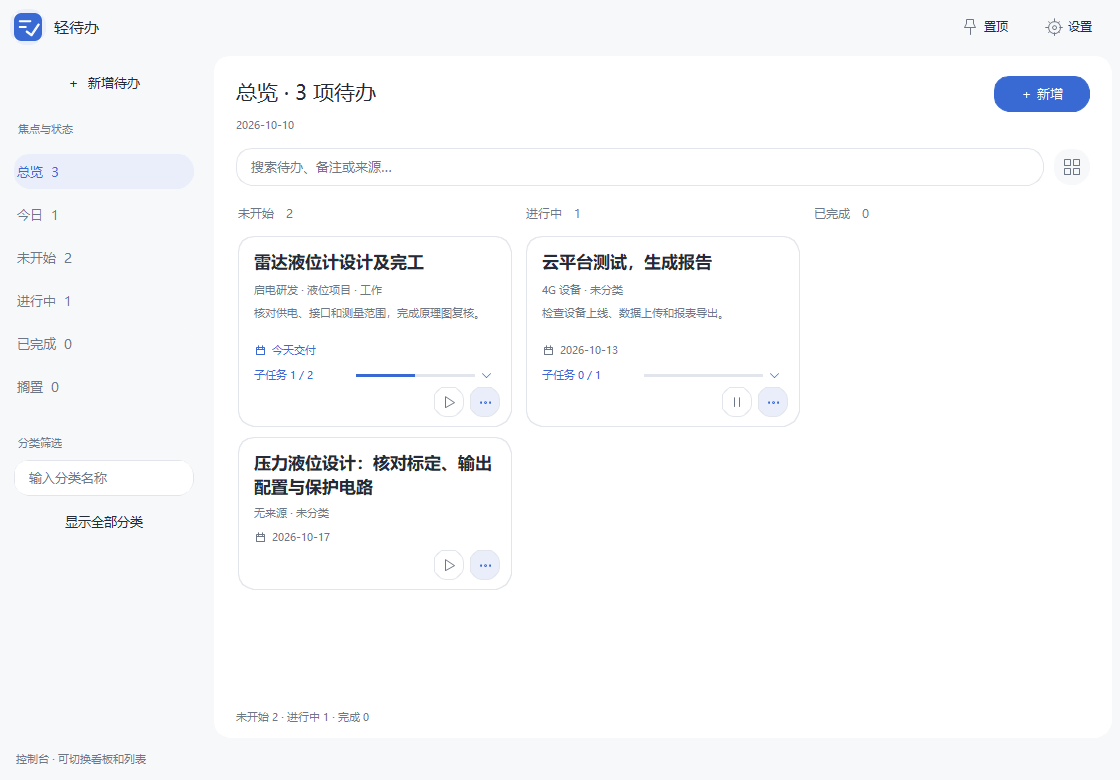
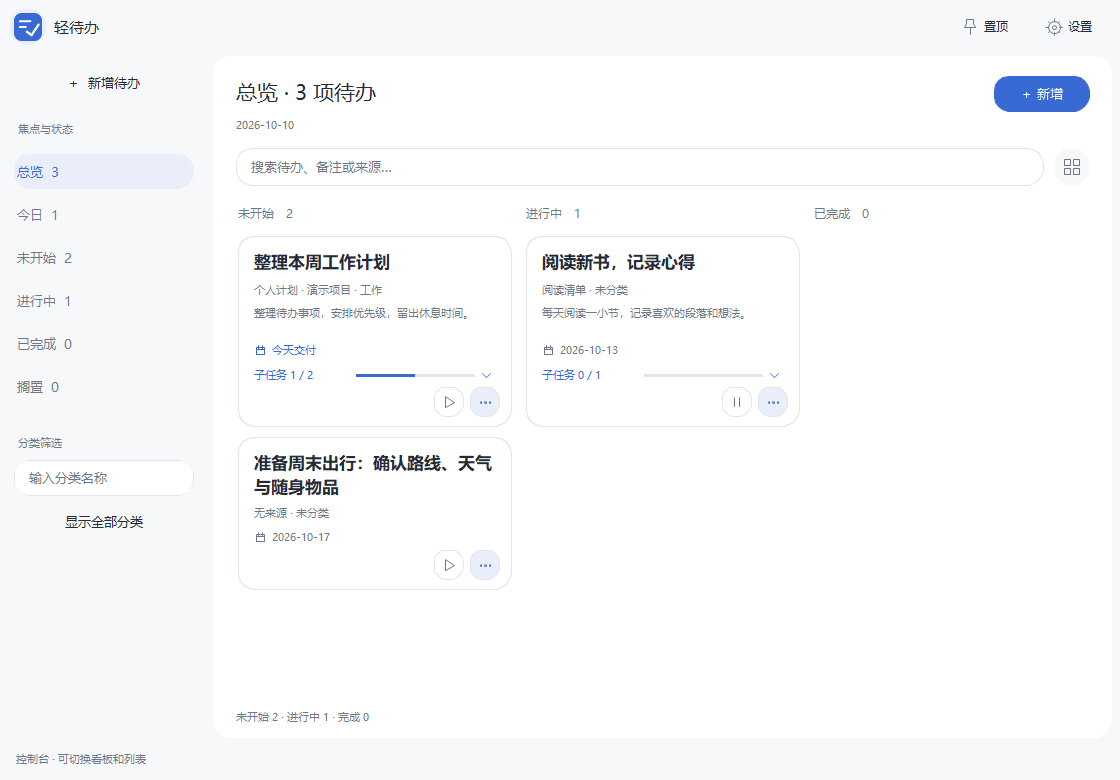
Replace README screenshots with generic demonstration tasks

Changed region(s): [[0.4688, 0.3077, 0.6562, 0.4308], [0.2188, 0.3077, 0.4375, 0.4308], [0.2188, 0.5846, 0.4375, 0.6462]]

diff --git a/src/ui.cpp b/src/ui.cpp
@@ -282,22 +282,22 @@ struct Ui::Impl {
     }
 #endif
     void check_quick_children(){
-        auto task=store.list(u8"雷达").at(0);list->toggle_children(task.id);refresh();
+        auto task=store.list(u8"本周工作").at(0);list->toggle_children(task.id);refresh();
         auto rows=[&]{for(const auto& card:list->cards)if(list->tasks[card.index].id==task.id)return list->child_rows(card);throw std::runtime_error("Expanded parent missing");};
         auto click=[&](const TaskBoard::ChildRow& row){int ox=Fl::e_x,oy=Fl::e_y,ok=Fl::e_keysym;Fl::e_x=list->x()+row.x+8;Fl::e_y=list->y()+row.y-list->offset+row.h/2;Fl::e_keysym=FL_Button+FL_LEFT_MOUSE;list->handle(FL_PUSH);list->handle(FL_RELEASE);Fl::e_x=ox;Fl::e_y=oy;Fl::e_keysym=ok;};
         auto children=rows();if(children.size()!=2)throw std::runtime_error("Main-page child expansion failed");capture("quick-children-render.ppm");
         int ox=Fl::e_x,oy=Fl::e_y,ok=Fl::e_keysym;Fl::e_x=list->x()+children[0].x+8;Fl::e_y=list->y()+children[0].y-list->offset+children[0].h/2;Fl::e_keysym=FL_Button+FL_LEFT_MOUSE;list->handle(FL_PUSH);Fl::e_y=list->y()+children[1].y-list->offset+children[1].h/2;list->handle(FL_DRAG);list->handle(FL_RELEASE);Fl::e_x=ox;Fl::e_y=oy;Fl::e_keysym=ok;
-        if(store.list(u8"雷达")[0].child_done!=1)throw std::runtime_error("Dragging between child rows changed completion");
+        if(store.list(u8"本周工作")[0].child_done!=1)throw std::runtime_error("Dragging between child rows changed completion");
         auto parent_card=*std::find_if(list->cards.begin(),list->cards.end(),[&](const TaskBoard::Card& card){return list->tasks[card.index].id==task.id;});
         for(int destination=0;destination<3;++destination){ox=Fl::e_x;oy=Fl::e_y;ok=Fl::e_keysym;Fl::e_x=list->x()+children[0].x+8;Fl::e_y=list->y()+children[0].y-list->offset+children[0].h/2;Fl::e_keysym=FL_Button+FL_LEFT_MOUSE;list->handle(FL_PUSH);Fl::e_x=list->x()+parent_card.x+(destination==0?parent_card.w-63:destination==1?parent_card.w-27:40);Fl::e_y=list->y()+parent_card.y-list->offset+(destination<2?parent_card.h-25:20);list->handle(FL_DRAG);list->handle(FL_RELEASE);Fl::e_x=ox;Fl::e_y=oy;Fl::e_keysym=ok;
-            if(page!=Page::Home||list->menu_id||store.list(u8"雷达")[0].in_progress)throw std::runtime_error("Child drag triggered a parent action");}
-        click(children[1]);if(page!=Page::Home||store.list(u8"雷达")[0].child_done!=2)throw std::runtime_error("Quick child check did not save in main page");
-        if(store.list(u8"雷达")[0].done)throw std::runtime_error("Quick child check unexpectedly completed parent");
-        store.set_done(task.id,true);refresh();children=rows();click(children[1]);if(store.list(u8"雷达")[0].done||store.list(u8"雷达")[0].child_done!=1)throw std::runtime_error("Quick child reopen did not restore parent");
+            if(page!=Page::Home||list->menu_id||store.list(u8"本周工作")[0].in_progress)throw std::runtime_error("Child drag triggered a parent action");}
+        click(children[1]);if(page!=Page::Home||store.list(u8"本周工作")[0].child_done!=2)throw std::runtime_error("Quick child check did not save in main page");
+        if(store.list(u8"本周工作")[0].done)throw std::runtime_error("Quick child check unexpectedly completed parent");
+        store.set_done(task.id,true);refresh();children=rows();click(children[1]);if(store.list(u8"本周工作")[0].done||store.list(u8"本周工作")[0].child_done!=1)throw std::runtime_error("Quick child reopen did not restore parent");
         // 模式、窄窗口与滚动后的命中必须共用实际布局，点击子项不能进入编辑页。
-        console=true;window->resize(window->x(),window->y(),1120,780);refresh();children=rows();click(children[1]);if(page!=Page::Home||store.list(u8"雷达")[0].child_done!=2)throw std::runtime_error("Board quick child hit failed");
-        console=false;window->resize(window->x(),window->y(),440,620);refresh();children=rows();click(children[1]);if(page!=Page::Home||store.list(u8"雷达")[0].child_done!=1)throw std::runtime_error("Narrow quick child hit failed");
-        open_editor();title->value(u8"尚未保存的子任务操作保护");navigate(Page::Home);children=rows();click(children[1]);if(page!=Page::Edit||std::string(title->value())!=u8"尚未保存的子任务操作保护"||store.list(u8"雷达")[0].child_done!=1)throw std::runtime_error("Quick child action overwrote draft");cancel_edit();
+        console=true;window->resize(window->x(),window->y(),1120,780);refresh();children=rows();click(children[1]);if(page!=Page::Home||store.list(u8"本周工作")[0].child_done!=2)throw std::runtime_error("Board quick child hit failed");
+        console=false;window->resize(window->x(),window->y(),440,620);refresh();children=rows();click(children[1]);if(page!=Page::Home||store.list(u8"本周工作")[0].child_done!=1)throw std::runtime_error("Narrow quick child hit failed");
+        open_editor();title->value(u8"尚未保存的子任务操作保护");navigate(Page::Home);children=rows();click(children[1]);if(page!=Page::Edit||std::string(title->value())!=u8"尚未保存的子任务操作保护"||store.list(u8"本周工作")[0].child_done!=1)throw std::runtime_error("Quick child action overwrote draft");cancel_edit();
         list->toggle_children(task.id);if(!rows().empty())throw std::runtime_error("Child collapse failed");window->resize(window->x(),window->y(),500,780);refresh();
         Task large;large.title=u8"长子任务与滚动回归";std::vector<Subtask> many;for(int i=0;i<200;++i)many.push_back({0,i==199?std::string(u8"最后一项：确认这一段较长的中文子任务换行后，仍然能够在主页面滚动并直接完成，不会被底部的父任务按钮覆盖。"):u8"检查项 "+std::to_string(i+1),false});
         auto large_id=store.save_task(large,many);search->value(large.title.c_str());refresh();list->toggle_children(large_id);const auto card=list->cards.at(0);auto large_rows=list->child_rows(card);if(large_rows.size()!=200||large_rows.back().y+large_rows.back().h>card.y+card.h-40)throw std::runtime_error("Long child rows overlap task actions");list->offset=std::max(0,list->total-list->h());click(large_rows.back());if(store.list(large.title)[0].child_done!=1||page!=Page::Home)throw std::runtime_error("Scrolled final child quick check failed");store.remove(large_id);search->value("");list->offset=0;refresh();
@@ -333,17 +333,17 @@ struct Ui::Impl {
 #ifdef _WIN32
         a->check_ball_lifecycle();
 #endif
-        a->open_editor();a->title->value(u8"雷达液位计设计及完工");a->source->value(u8"启电研发 · 液位项目");a->category->value(u8"工作");a->note->value(u8"核对供电、接口和测量范围，完成原理图复核。");a->due_chips[0]->do_callback();a->child_input->value(u8"确认供电与通信接口");a->add_child->do_callback();a->child_list->items[0].done=true;a->child_input->value(u8"绘制原理图并复核");a->add_child->do_callback();a->save_button->do_callback();auto t=a->store.list(u8"雷达");if(t.size()!=1||t[0].child_count!=2||t[0].child_done!=1||t[0].due_at!=day_after(0))throw std::runtime_error("Task/children/shortcut save failed");long long first=t[0].id;
-        Task second;second.title=u8"云平台测试，生成报告";second.source=u8"4G 设备";second.due_at=day_after(3);second.note=u8"检查设备上线、数据上传和报表导出。";auto second_id=a->store.save_task(second,{});a->store.set_progress(second_id,true);
-        Task third;third.title=u8"压力液位设计：核对标定、输出配置与保护电路";third.due_at=day_after(7);a->store.save_task(third,{});
-        auto running=a->store.list(u8"云平台");a->open_editor(&running[0]);a->child_input->value(u8"复核设备上传数据");a->add_child->do_callback();a->save_button->do_callback();running=a->store.list(u8"云平台");if(!running[0].in_progress)throw std::runtime_error("Adding a child lost parent running state");
-        a->open_editor(&running[0]);a->child_list->items[0].done=true;a->save_button->do_callback();running=a->store.list(u8"云平台");a->open_editor(&running[0]);a->child_list->action(0,0);a->save_button->do_callback();if(!a->store.list(u8"云平台")[0].in_progress)throw std::runtime_error("Reopening a child lost parent running state");
-        t=a->store.list(u8"雷达");a->open_editor(&t[0]);a->child_input->value(u8"这项未保存，不应写入数据库");a->add_child->do_callback();a->cancel_button->do_callback();if(a->store.children(first).size()!=2)throw std::runtime_error("Cancel leaked child draft");
+        a->open_editor();a->title->value(u8"整理本周工作计划");a->source->value(u8"个人计划 · 演示项目");a->category->value(u8"工作");a->note->value(u8"整理待办事项，安排优先级，留出休息时间。");a->due_chips[0]->do_callback();a->child_input->value(u8"列出本周重点事项");a->add_child->do_callback();a->child_list->items[0].done=true;a->child_input->value(u8"安排时间并复核计划");a->add_child->do_callback();a->save_button->do_callback();auto t=a->store.list(u8"本周工作");if(t.size()!=1||t[0].child_count!=2||t[0].child_done!=1||t[0].due_at!=day_after(0))throw std::runtime_error("Task/children/shortcut save failed");long long first=t[0].id;
+        Task second;second.title=u8"阅读新书，记录心得";second.source=u8"阅读清单";second.due_at=day_after(3);second.note=u8"每天阅读一小节，记录喜欢的段落和想法。";auto second_id=a->store.save_task(second,{});a->store.set_progress(second_id,true);
+        Task third;third.title=u8"准备周末出行：确认路线、天气与随身物品";third.due_at=day_after(7);a->store.save_task(third,{});
+        auto running=a->store.list(u8"阅读新书");a->open_editor(&running[0]);a->child_input->value(u8"整理阅读笔记");a->add_child->do_callback();a->save_button->do_callback();running=a->store.list(u8"阅读新书");if(!running[0].in_progress)throw std::runtime_error("Adding a child lost parent running state");
+        a->open_editor(&running[0]);a->child_list->items[0].done=true;a->save_button->do_callback();running=a->store.list(u8"阅读新书");a->open_editor(&running[0]);a->child_list->action(0,0);a->save_button->do_callback();if(!a->store.list(u8"阅读新书")[0].in_progress)throw std::runtime_error("Reopening a child lost parent running state");
+        t=a->store.list(u8"本周工作");a->open_editor(&t[0]);a->child_input->value(u8"这项未保存，不应写入数据库");a->add_child->do_callback();a->cancel_button->do_callback();if(a->store.children(first).size()!=2)throw std::runtime_error("Cancel leaked child draft");
         a->check_quick_children();a->check_editor_scroll();
-        a->search->value(u8"雷达");a->search->do_callback();if(a->list->tasks.size()!=1)throw std::runtime_error("Search failed");a->search->value("");a->search->do_callback();a->capture("ui-render.ppm");
+        a->search->value(u8"本周工作");a->search->do_callback();if(a->list->tasks.size()!=1)throw std::runtime_error("Search failed");a->search->value("");a->search->do_callback();a->capture("ui-render.ppm");
         a->logo->do_callback();if(!a->console)throw std::runtime_error("Logo mode switch failed");fl_font(FL_HELVETICA,14);for(const auto& card:a->list->cards)if(a->list->tasks[card.index].title==third.title&&card.h<2*fl_height()+105)throw std::runtime_error("Long Chinese title did not wrap");a->capture("console-render.ppm");a->view_button->do_callback();a->capture("console-list-render.ppm");a->view_button->do_callback();
         for(auto size:std::array<std::pair<int,int>,5>{{{440,620},{760,650},{1120,780},{1440,900},{500,780}}}){a->window->resize(a->window->x(),a->window->y(),size.first,size.second);a->check_layout();if(size.first==440)a->capture("narrow-render.ppm");if(size.first==1440)a->capture("wide-render.ppm");}
-        a->console=false;a->refresh();t=a->store.list(u8"雷达");a->open_editor(&t[0]);a->capture("editor-render.ppm");a->edit_scroll->scroll_to(0,250);a->capture("subtasks-render.ppm");a->edit_scroll->scroll_to(0,0);a->date_picker->do_callback();if(a->page!=Page::Calendar)throw std::runtime_error("Inline calendar failed");a->capture("calendar-render.ppm");a->calendar_back->do_callback();a->set_reminder->do_callback();a->capture("reminder-render.ppm");a->reminder_back->do_callback();a->gear->do_callback();a->capture("settings-render.ppm");a->settings_rows[0]->do_callback();a->capture("general-render.ppm");a->window->resize(a->window->x(),a->window->y(),440,620);a->capture("general-narrow-render.ppm");a->window->resize(a->window->x(),a->window->y(),500,780);a->settings_back->do_callback();a->settings_back->do_callback();if(a->page!=Page::Edit||!a->draft_active)throw std::runtime_error("Settings back lost draft");
+        a->console=false;a->refresh();t=a->store.list(u8"本周工作");a->open_editor(&t[0]);a->capture("editor-render.ppm");a->edit_scroll->scroll_to(0,250);a->capture("subtasks-render.ppm");a->edit_scroll->scroll_to(0,0);a->date_picker->do_callback();if(a->page!=Page::Calendar)throw std::runtime_error("Inline calendar failed");a->capture("calendar-render.ppm");a->calendar_back->do_callback();a->set_reminder->do_callback();a->capture("reminder-render.ppm");a->reminder_back->do_callback();a->gear->do_callback();a->capture("settings-render.ppm");a->settings_rows[0]->do_callback();a->capture("general-render.ppm");a->window->resize(a->window->x(),a->window->y(),440,620);a->capture("general-narrow-render.ppm");a->window->resize(a->window->x(),a->window->y(),500,780);a->settings_back->do_callback();a->settings_back->do_callback();if(a->page!=Page::Edit||!a->draft_active)throw std::runtime_error("Settings back lost draft");
         int old_key=Fl::e_keysym,old_state=Fl::e_state,old_length=Fl::e_length;char* old_text=Fl::e_text;Fl::e_keysym=FL_Enter;Fl::e_state=FL_CTRL;Fl::e_text=const_cast<char*>("\r");Fl::e_length=1;a->note->handle(FL_KEYBOARD);Fl::e_keysym=old_key;Fl::e_state=old_state;Fl::e_text=old_text;Fl::e_length=old_length;if(a->draft_active||a->page!=Page::Home)throw std::runtime_error("Synthetic Ctrl+Enter failed");
         // 本程序自身控件回调验证，不注入外部窗口或改动真实用户数据。
         a->pin->do_callback();if(!a->pinned||!a->pin->selected())throw std::runtime_error("Pin selected feedback failed");a->capture("pin-render.ppm");a->pin->do_callback();

diff --git a/README.md b/README.md
@@ -45,7 +45,7 @@
 
 ## 界面预览
 
-以下为程序实际控件渲染，使用演示任务，不包含个人数据；窗口外框由操作系统提供。
+以下为程序实际控件渲染，任务、来源、备注和子任务均为虚构的通用演示数据，不包含客户名称或实际项目内容；窗口外框由操作系统提供。
 
 ### 快捷面板与任务编辑
 
